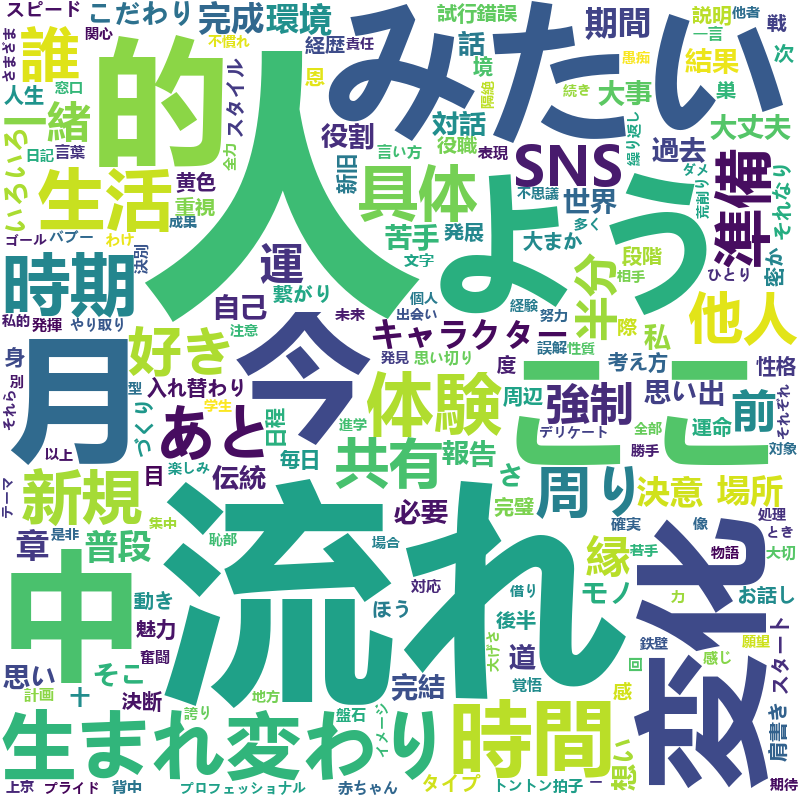
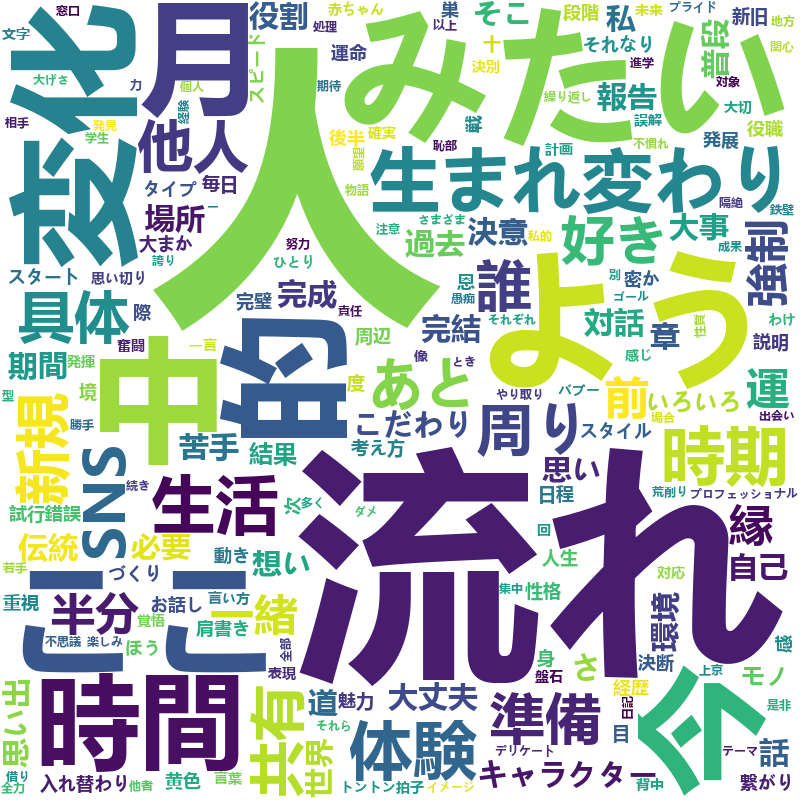
無視する単語リストを調整

diff --git a/main.py b/main.py
@@ -28,7 +28,7 @@ def WordCloudGenerate():
     for i in token_text:
         pos = i.part_of_speech.split(',')[0]
         word = i.surface
-        stopwords = ['こと','もの','それ','あれ','の','これ','ため','ん','自分','あなた','今年','年','下半期','上半期','牡牛座','牡牛','牡','牛','何','星座','星','座']
+        stopwords = ['こと','もの','それ','あれ','の','これ','ため','ん','自分','あなた','今年','年','下半期','上半期','牡牛座','牡牛','牡','牛','何','星座','星','座','みたい']
         if pos == '名詞' and word not in stopwords:
             words = words + ' ' + word
             word_list.append(word)
@@ -39,12 +39,13 @@ def WordCloudGenerate():
     result_path = 'sample.png'
 
     counter = Counter(word_list)
-    top_20 = counter.most_common(20)
+    top_20 = counter.most_common(50)
     print(top_20)
     return result_path
 
 if __name__ == '__main__':
     WordCloudGenerate()
+
 
 
 
